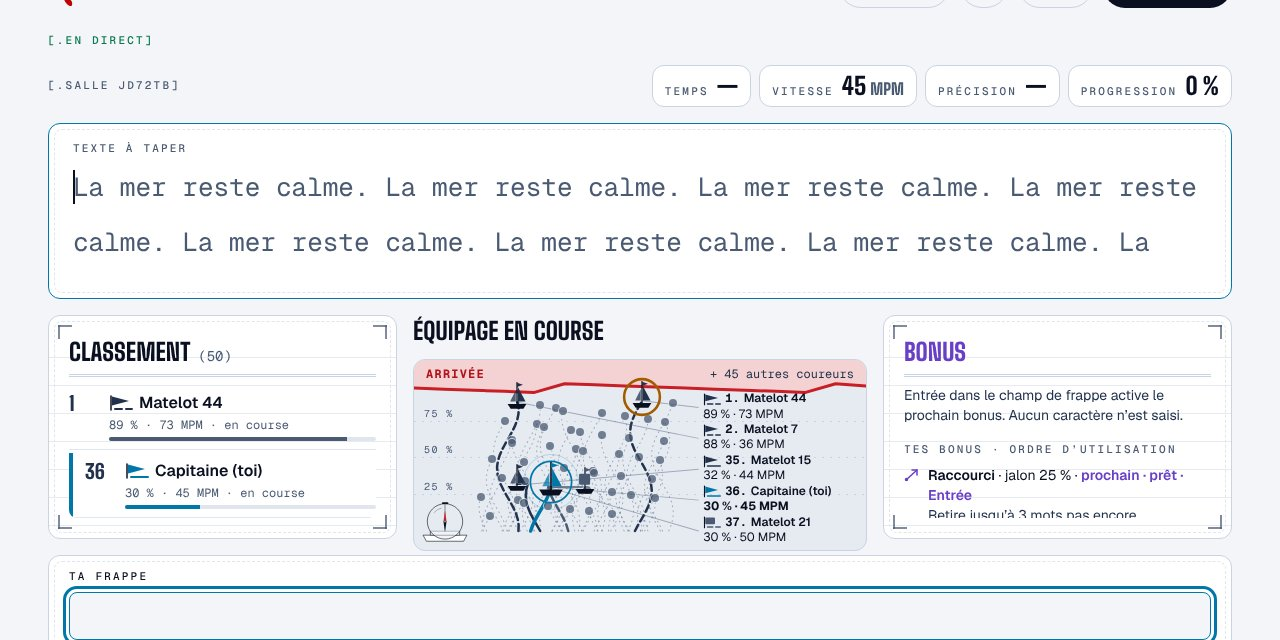
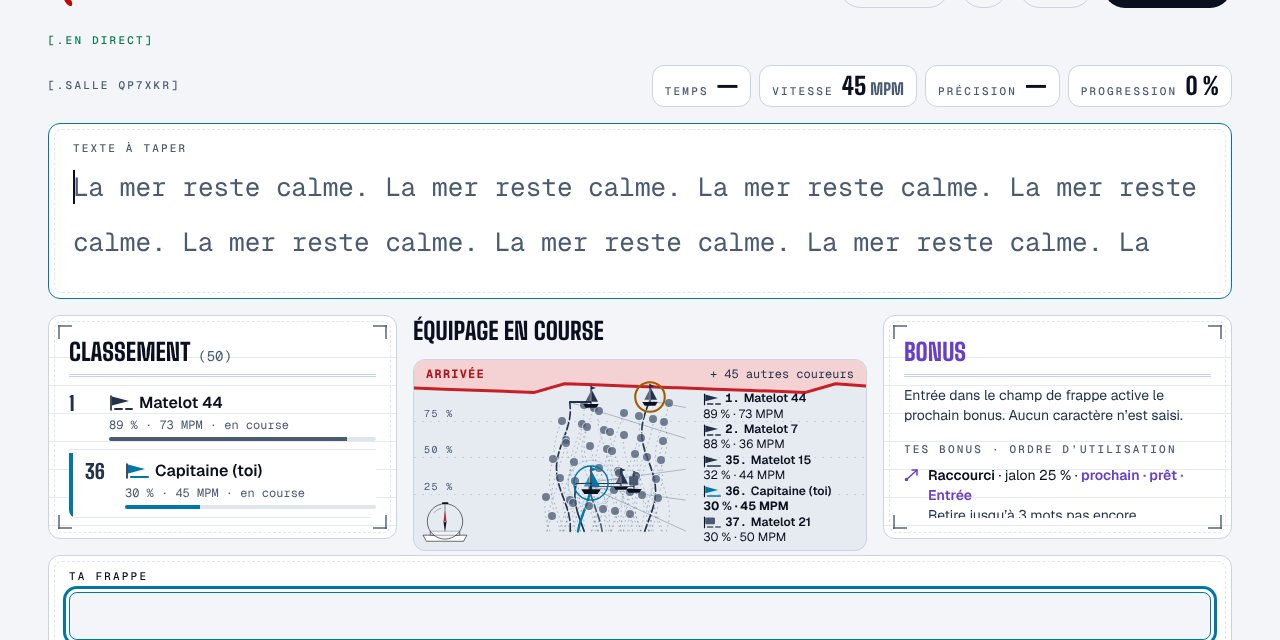
feat(races): on a narrow chart, start the lanes right of the finish word
Option C of the finish comparison, chosen by Philippe on 20 November: on
a vertical chart of 600 px or less (the Arcade row, the low screen, the
phone) the lanes are drawn between 30 and 55 % of the width instead of
16 to 55 %, so that no ship reaches « ARRIVÉE ». Markers, routes,
connectors, ships and tethers move together through one CSS mapping;
progress is unchanged. Ships are berthed there with their own clearance,
in lane space, and are a little smaller (38 px, mine 48 px). The tether
becomes a line inside the marker, so it follows the mapping.

da2-race.spec.ts checks that no ship touches the finish word on every
vertical capture and measures each tether as drawn. A whole crew exactly
level on a narrow chart may keep a neighbour short of mine: mine is then
drawn above it (declared in the spec and the evidence README).

Claude-Session: https://claude.ai/code/session_01FBFqZL8NQL9Yzz1qyg8vKZ

Changed region(s): [[0.375, 0.5938, 0.5312, 0.8438], [0.0938, 0.125, 0.125, 0.1562]]

diff --git a/apps/web/e2e/da2-race.spec.ts b/apps/web/e2e/da2-race.spec.ts
@@ -68,7 +68,7 @@ async function chartBoxes(page: Page) {
       mine: [...track.querySelectorAll("[data-self] [data-ship]")].filter(visible).map(el => box(el.querySelector("path:last-of-type")!)),
       others: [...track.querySelectorAll("[data-runner]:not([data-self]) [data-ship]")].filter(visible).map(el => box(el.querySelector("path:last-of-type")!)),
       sails: [...track.querySelectorAll("[data-ship]")].filter(visible).map(el => box(el.querySelector("[data-sail-cloth]")!)),
-      words: [...track.querySelectorAll("[data-track-word]")].map(el => ({ ...box(el), layer: Number(getComputedStyle(el).zIndex), plate: getComputedStyle(el).backgroundColor,
+      words: [...track.querySelectorAll<HTMLElement>("[data-track-word]")].map(el => ({ ...box(el), word: el.dataset.trackWord, layer: Number(getComputedStyle(el).zIndex), plate: getComputedStyle(el).backgroundColor,
         above: Math.max(...[...track.querySelectorAll("[data-runner]:not([data-self])")].map(marker => Number(getComputedStyle(marker).zIndex) || 0)),
         mine: Math.max(...[...track.querySelectorAll("[data-runner][data-self]")].map(marker => Number(getComputedStyle(marker).zIndex) || 0)) })),
       markers: [...track.querySelectorAll("[data-runner]")].map(box) };
@@ -141,12 +141,31 @@ for (const item of cases) {
       expect(word.plate).toMatch(/^(rgb\(|color\(srgb [\d. ]+\)$)/);
     }
     // No ship over mine: one that would cover it is drawn beside its marker (two others may touch).
+    // Exception, measured and declared: a whole crew exactly level on a narrow chart (the
+    // by-the-coast cases) can hold a neighbour short of mine by its 10 % reach; mine is then drawn
+    // above it, never under.
     expect(boxes.mine).toHaveLength(1);
-    for (const hull of boxes.others) expect(overlap(hull, boxes.mine[0]!), "a hull over mine").toBe(false);
-    // A ship drawn beside its marker is tied to it; the others have no tether (each chart has its own).
-    expect(await track.evaluate((el, tablet) => [...el.querySelectorAll<HTMLElement>("[data-runner]")].filter(marker => marker.querySelector("[data-ship]"))
-      .every(marker => (Number(marker.style.getPropertyValue(tablet ? "--horizontal-ship-shift" : "--ship-shift")) !== 0)
-        === (el.querySelector(`[${tablet ? "data-horizontal-tether" : "data-tether"}="${marker.dataset.runner}"]`) !== null)), horizontal)).toBe(true);
+    if (steps > 4) expect(await track.evaluate(el => { const z = (m: Element) => Number(getComputedStyle(m).zIndex) || 0;
+      const mine = el.querySelector("[data-runner][data-self]")!; return [...el.querySelectorAll("[data-runner]:not([data-self])")].every(other => z(other) < z(mine)); })).toBe(true);
+    else for (const hull of boxes.others) expect(overlap(hull, boxes.mine[0]!), "a hull over mine").toBe(false);
+    // A ship drawn beside its marker is tied to it, the tether running from the marker to the ship's
+    // foot; a ship on its marker has none. Measured as drawn, whatever the chart's mapping.
+    if (horizontal) expect(await track.evaluate(el => [...el.querySelectorAll<HTMLElement>("[data-runner]")].filter(marker => marker.querySelector("[data-ship]"))
+      .every(marker => (Number(marker.style.getPropertyValue("--horizontal-ship-shift")) !== 0)
+        === (el.querySelector(`[data-horizontal-tether="${marker.dataset.runner}"]`) !== null)))).toBe(true);
+    else for (const tie of await track.evaluate(el => [...el.querySelectorAll<HTMLElement>("[data-runner]")].filter(marker => marker.querySelector("[data-ship]")).map(marker => {
+      const foot = marker.getBoundingClientRect().left; const hull = marker.querySelector("[data-ship] > path:last-of-type")!.getBoundingClientRect();
+      const tether = marker.querySelector("[data-tether]")!.getBoundingClientRect();
+      return { offset: hull.left + hull.width / 2 - foot, tether: tether.width, from: Math.min(Math.abs(tether.left - foot), Math.abs(tether.right - foot)) };
+    }))) {
+      expect(tie.tether).toBeCloseTo(Math.abs(tie.offset), 0);
+      if (tie.tether > 0.5) expect(tie.from).toBeLessThan(1);
+    }
+    // On the vertical chart no ship, mine included, reaches the finish word: the lanes start right of it.
+    if (!horizontal) {
+      const finish = boxes.words.find(word => word.word === "finish")!;
+      for (const ship of [...boxes.ships, ...boxes.sails]) expect(overlap(ship, finish), "a ship on « ARRIVÉE »").toBe(false);
+    }
     // On the tablet's chart, every runner it does not name is grey, dot and route alike, as « + N » counts them.
     if (horizontal) {
       const crew = await track.evaluate(el => [...el.querySelectorAll<HTMLElement>("[data-runner]")].map(marker => ({ ship: marker.querySelector("[data-ship]")?.getBoundingClientRect().width ?? 0,

diff --git a/apps/web/src/components/races/track-layout.ts b/apps/web/src/components/races/track-layout.ts
@@ -16,6 +16,8 @@ export type TrackPoint = {
    * unless it would sail under another ship. Drawing only: the marker stays on the real position.
    */
   readonly shipShift: number;
+  /** The same on a narrow vertical chart, in lane space (see `NARROW_LANES`): the stylesheet scales it with the lanes. */
+  readonly narrowShipShift: number;
   /** The same on the tablet's horizontal chart, in % of its height, for the two ships it draws (me and the leader). */
   readonly horizontalShipShift: number;
   /** The runner's stable sea route, the same on every refresh of the round (see `routeStyle`). */
@@ -115,6 +117,16 @@ export const LABEL_GAP = 16.25;
  */
 export type ShipBerths = { readonly clear: number; readonly level: number; readonly ease: number; readonly min: number; readonly max: number; readonly reach: number };
 export const SHIP_BERTHS: ShipBerths = { clear: 7.5, level: 16, ease: 4, min: 4, max: 60, reach: 10 };
+/**
+ * On a narrow vertical chart (600 px or less: the Arcade row, a low screen, a phone) the first
+ * lanes would sail under the finish word. The stylesheet then draws the lanes, 16 to 55 % of the
+ * width, between 30 and 55 %: x' = offset + scale × x (race-track.module.css, same numbers).
+ * Ships there are berthed in lane space with a clearance and a reach divided by the scale, so that
+ * once drawn they keep the same 7.5 % and 10 %, and never start left of 30 %.
+ */
+export const NARROW_LANES = { offset: 30 - 16 * (25 / 39), scale: 25 / 39 } as const;
+export const NARROW_SHIP_BERTHS: ShipBerths = { ...SHIP_BERTHS, clear: SHIP_BERTHS.clear / NARROW_LANES.scale, reach: SHIP_BERTHS.reach / NARROW_LANES.scale,
+  min: (30 - NARROW_LANES.offset) / NARROW_LANES.scale, max: (SHIP_BERTHS.max - NARROW_LANES.offset) / NARROW_LANES.scale };
 /** The tablet's chart: lanes down its 180 px, the course along its width. Only two ships sail there. */
 export const HORIZONTAL_SHIP_BERTHS: ShipBerths = { clear: 18, level: 4, ease: 1.5, min: 14, max: 62, reach: 20 };
 
@@ -197,7 +209,7 @@ export function trackLayout(entrants: readonly Runner[], selfId: string | null):
       runner, self: id === selfId, labelled: labelled.has(id),
       tone: id === selfId ? "self" as const : id === leader ? "leader" as const :
         id === ahead ? "nearAhead" as const : id === behind ? "nearBehind" as const : "neutral" as const,
-      x, y, horizontalX, horizontalY, labelY: 0, shipShift: 0, horizontalShipShift: 0,
+      x, y, horizontalX, horizontalY, labelY: 0, shipShift: 0, narrowShipShift: 0, horizontalShipShift: 0,
       route: routes.get(id)!,
       path: routePath(progress, vertical), horizontalPath: routePath(progress, horizontal),
     };
@@ -213,11 +225,13 @@ export function trackLayout(entrants: readonly Runner[], selfId: string | null):
   const labelPositions = new Map(labels.map((point, i) => [point.runner.entrantId, positions[i]!]));
   // Markers stay at the end of their own route: never moved aside for a label.
   const berthing = raw.map((point, lane) => ({ point, id: point.runner.entrantId, self: point.self, lane }));
-  const shifts = shipShifts(berthing.filter(({ point }) => point.labelled).map(({ point, ...ship }) => ({ ...ship, berth: laneOf(ship.lane), across: point.x, along: point.y })), SHIP_BERTHS);
+  const named = berthing.filter(({ point }) => point.labelled).map(({ point, ...ship }) => ({ ...ship, berth: laneOf(ship.lane), across: point.x, along: point.y }));
+  const shifts = shipShifts(named, SHIP_BERTHS);
+  const narrowShifts = shipShifts(named, NARROW_SHIP_BERTHS);
   const horizontalShifts = shipShifts(berthing.filter(({ point }) => point.self || point.tone === "leader")
     .map(({ point, ...ship }) => ({ ...ship, berth: horizontalLaneOf(ship.lane), across: point.horizontalY, along: point.horizontalX })), HORIZONTAL_SHIP_BERTHS);
   return raw.map((point) => ({ ...point, labelY: labelPositions.get(point.runner.entrantId) ?? point.y,
-    shipShift: shifts.get(point.runner.entrantId) ?? 0, horizontalShipShift: horizontalShifts.get(point.runner.entrantId) ?? 0 }));
+    shipShift: shifts.get(point.runner.entrantId) ?? 0, narrowShipShift: narrowShifts.get(point.runner.entrantId) ?? 0, horizontalShipShift: horizontalShifts.get(point.runner.entrantId) ?? 0 }));
 }
 
 /**

diff --git a/apps/web/src/components/races/race-track.module.css b/apps/web/src/components/races/race-track.module.css
@@ -109,11 +109,23 @@
 .dashed { stroke-dasharray: 7 4; }
 .dotted { stroke-dasharray: 1 4; }
 .anonRoute { --route: var(--color-brume); stroke-width: 1px; opacity: 0.45; stroke-dasharray: 1 4; }
-.tether {
+/* The horizontal chart's tether, in its routes' drawing. */
+.routeTether {
   stroke: var(--route);
   stroke-width: 1.5px;
   stroke-linecap: round;
   vector-effect: non-scaling-stroke;
+}
+/* The vertical chart's tether: from the marker to its ship's foot, the length of the drawn shift. */
+.tether {
+  position: absolute;
+  top: -0.75px;
+  left: min(0px, calc(var(--drawn-shift) * 1cqw));
+  width: max(calc(var(--drawn-shift) * 1cqw), calc(var(--drawn-shift) * -1cqw));
+  height: 1.5px;
+  background: var(--route);
+  pointer-events: none;
+  transition: left var(--duration-court) var(--ease-incision), width var(--duration-court) var(--ease-incision);
 }
 .connector {
   stroke: var(--color-brume);
@@ -123,6 +135,8 @@
 }
 
 .point {
+  /* The ship's sideways offset as drawn, in % of the chart's width (narrow charts scale it). */
+  --drawn-shift: var(--ship-shift, 0);
   position: absolute;
   z-index: 1;
   left: var(--point-x);
@@ -143,7 +157,7 @@
   --ship-size: 46px;
   position: absolute;
   /* Beside its marker when it would sail under another ship (track-layout's `shipShift`). */
-  left: calc(var(--ship-size) / -2 + var(--ship-shift, 0) * 1cqw);
+  left: calc(var(--ship-size) / -2 + var(--drawn-shift) * 1cqw);
   /* The ship's foot (SHIP_ANCHOR: 31 / 54 of its box) on the marker. */
   top: calc(var(--ship-size) * -0.574);
   width: var(--ship-size);
@@ -185,6 +199,20 @@
 }
 /* A narrow chart (the three-column row at 1024 px, a phone): the name's line is the name's, the
    pennant stays in the standings. */
+/*
+ * A narrow vertical chart (600 px or less): the lanes are drawn between 30 and 55 % of the width,
+ * right of the finish word, instead of 16 to 55 %; x' = 19.744 % + 0.641 x (track-layout's
+ * NARROW_LANES). Markers, routes, connectors, ships and tethers move together; progress does not.
+ */
+@media not ((min-width: 640px) and (max-width: 1023px)) {
+  @container (max-width: 600px) {
+    .point { left: calc(19.744% + var(--point-x) * 0.641); --drawn-shift: calc(var(--narrow-ship-shift, 0) * 0.641); }
+    /* Smaller ships in the narrower band, as on the tablet's chart: neighbours level with me stay clear of mine. */
+    .ship { --ship-size: 38px; }
+    .self .ship { --ship-size: 48px; }
+    .verticalRoutes { transform: translateX(19.744%) scaleX(0.641); transform-origin: 0 0; }
+  }
+}
 @container (max-width: 400px) {
   .track .pennant { display: none; }
   .label { left: 63%; width: 36.5%; }
@@ -196,6 +224,7 @@
   .horizontalRoutes, .track .horizontalOnly { display: block; }
   .track { height: 180px; }
   .point { left: var(--horizontal-x); top: var(--horizontal-y); }
+  .track .tether { display: none; }
   /* Lanes run down this chart (180 px high): a ship beside its marker is above or below it. */
   .ship { --ship-size: 36px; left: calc(var(--ship-size) / -2); top: calc(var(--ship-size) * -0.574 + var(--horizontal-ship-shift, 0) * 1.8px); }
   /* Only the two runners named on this chart sail a ship; the other named ones are dots again,
@@ -218,11 +247,12 @@
   .more { top: 6px; right: auto; left: 12px; font-size: 10px; }
 }
 @media (prefers-reduced-motion: reduce) {
-  .point, .label, .ship { transition: none !important; }
+  .point, .label, .ship, .tether { transition: none !important; }
 }
 @media (forced-colors: active) {
   .point { background: CanvasText; forced-color-adjust: none; box-shadow: none; }
-  .route, .tether { stroke: CanvasText; }
+  .route, .routeTether { stroke: CanvasText; }
+  .tether { background: CanvasText; forced-color-adjust: none; }
   .connector { stroke: CanvasText; opacity: 1; }
   .selfRoute { stroke: Highlight; }
   .milestone { background: none; border-top: 1px dotted CanvasText; }

diff --git a/apps/web/src/components/races/race-track.tsx b/apps/web/src/components/races/race-track.tsx
@@ -57,16 +57,13 @@ export const RaceTrack = memo(function RaceTrack({ entrants, progress, selfId, t
           className={`${styles.route} ${routeClass(point)}`} />)}
         {points.filter((point) => point.labelled).map((point) => <line key={point.runner.entrantId} className={styles.connector}
           x1={point.x} y1={point.y} x2="63" y2={point.labelY} />)}
-        {/* A ship drawn beside its marker stays tied to it, in its own colour. */}
-        {points.filter((point) => point.labelled && point.shipShift !== 0).map((point) => <line key={point.runner.entrantId} data-tether={point.runner.entrantId}
-          className={`${styles.tether} ${styles[point.route.colour]}`} x1={point.x} y1={point.y} x2={point.x + point.shipShift} y2={point.y} />)}
       </svg>
       <svg viewBox="0 0 100 100" preserveAspectRatio="none" className={`${styles.routes} ${styles.horizontalRoutes}`}>
         {/* This chart names two runners only (me and the leader): every other route is an unnamed one. */}
         {points.map((point) => <polyline key={point.runner.entrantId} points={point.horizontalPath} data-horizontal-route={point.runner.entrantId}
           className={`${styles.route} ${routeClass(point, point.self || point.tone === "leader")}`} />)}
         {points.filter((point) => (point.self || point.tone === "leader") && point.horizontalShipShift !== 0).map((point) => <line key={point.runner.entrantId} data-horizontal-tether={point.runner.entrantId}
-          className={`${styles.tether} ${styles[point.route.colour]}`} x1={point.horizontalX} y1={point.horizontalY} x2={point.horizontalX} y2={point.horizontalY + point.horizontalShipShift} />)}
+          className={`${styles.routeTether} ${styles[point.route.colour]}`} x1={point.horizontalX} y1={point.horizontalY} x2={point.horizontalX} y2={point.horizontalY + point.horizontalShipShift} />)}
       </svg>
       {points.map((point) => {
         const { runner } = point;
@@ -75,12 +72,14 @@ export const RaceTrack = memo(function RaceTrack({ entrants, progress, selfId, t
         const leader = point.tone === "leader";
         const position = { "--point-x": `${point.x}%`, "--point-y": `${point.y}%`, "--label-y": `${point.labelY}%`,
           "--horizontal-x": `${point.horizontalX}%`, "--horizontal-y": `${point.horizontalY}%`,
-          "--horizontal-label-x": `${Math.max(2, Math.min(60, point.horizontalX - 5))}%`, "--ship-shift": point.shipShift, "--horizontal-ship-shift": point.horizontalShipShift } as CSSProperties;
+          "--horizontal-label-x": `${Math.max(2, Math.min(60, point.horizontalX - 5))}%`, "--ship-shift": point.shipShift, "--narrow-ship-shift": point.narrowShipShift, "--horizontal-ship-shift": point.horizontalShipShift } as CSSProperties;
         return <div key={runner.entrantId}>
           {/* The marker is the runner's real position: a dot, or the foot of a named runner's ship. */}
           <span data-runner={runner.entrantId} data-self={point.self || undefined} data-kind={runner.kind} data-position={runner.position}
             data-route-colour={point.route.colour} data-route-dash={point.route.dash} style={position}
             className={`${styles.point} ${point.labelled ? `${styles.named} ${styles[point.route.colour]}` : styles.anon} ${point.self ? styles.self : ""} ${leader ? styles.leader : ""}`}>
+            {/* A ship drawn beside its marker stays tied to it by a short line in its colour (none when it is on it). */}
+            {point.labelled && <span data-tether={runner.entrantId} className={styles.tether} />}
             {point.labelled && <Ship kind={runner.kind} colour={point.route.colour} self={point.self} leader={leader} className={styles.ship} />}
           </span>
           {point.labelled && <span data-track-label style={position} className={`${styles.label} ${point.self ? styles.selfLabel : ""} ${leader ? styles.leaderLabel : ""}`}>

diff --git a/apps/web/src/components/races/track-layout.test.ts b/apps/web/src/components/races/track-layout.test.ts
@@ -1,5 +1,5 @@
 import { describe, expect, it } from "vitest";
-import { LABEL_BOTTOM, LABEL_GAP, LABEL_TOP, ROUTE_COLOURS, routeStyles, SHIP_BERTHS, HORIZONTAL_SHIP_BERTHS, standingsOrder, trackLayout } from "./track-layout";
+import { LABEL_BOTTOM, LABEL_GAP, LABEL_TOP, ROUTE_COLOURS, routeStyles, SHIP_BERTHS, HORIZONTAL_SHIP_BERTHS, NARROW_LANES, standingsOrder, trackLayout } from "./track-layout";
 
 const runners = (count: number) => Array.from({ length: count }, (_, i) => ({ entrantId: `runner-${String(i).padStart(2, "0")}`, kind: i % 4 === 0 ? "bot" as const : "human" as const,
   status: "racing" as const, position: i * 2, length: 100, netWpm: 40 + i, inactive: false }));
@@ -43,6 +43,37 @@ describe("named ships", () => {
     // Held short of a full clearance by the reach or an edge: possible in a crew bunched on purpose, as
     // here, never the common case (under 3 % of the ships beside mine).
     expect(stopped).toBeLessThanOrEqual(pairs * 0.03);
+  });
+
+  it.each([2, 6, 12, 30, 50])("on a narrow chart, starts every ship right of the finish word and keeps mine clear as drawn, among %i runners", count => {
+    const random = sequence(count + 101);
+    const drawn = (x: number) => NARROW_LANES.offset + NARROW_LANES.scale * x;
+    let stopped = 0; let pairs = 0; let hulls = 0;
+    for (let round = 0; round < 400; round++) {
+      const base = round < 3 ? [0, 40, 100][round]! : Math.floor(random() * 90);
+      const spread = round < 3 ? 0 : Math.floor(random() * 12);
+      const input = runners(count).map(r => ({ ...r, position: Math.min(100, base + Math.floor(random() * (spread + 1))) }));
+      const points = trackLayout(input, input[Math.floor(random() * count)]!.entrantId);
+      // Every lane is drawn right of 28 % (30 % less the routes' swing), a ship never left of it.
+      for (const point of points) expect(drawn(point.x)).toBeGreaterThanOrEqual(30 - 2.4 * NARROW_LANES.scale - 0.01);
+      const ships = points.filter(p => p.labelled).map(p => ({ x: drawn(p.x + p.narrowShipShift), y: p.y, self: p.self, shift: p.narrowShipShift * NARROW_LANES.scale }));
+      const mine = ships.find(ship => ship.self)!;
+      expect(mine.shift).toBe(0);
+      for (const ship of ships) {
+        expect(ship.x).toBeGreaterThanOrEqual(28); expect(ship.x).toBeLessThanOrEqual(SHIP_BERTHS.max + 0.01);
+        expect(Math.abs(ship.shift)).toBeLessThanOrEqual(SHIP_BERTHS.reach + 0.01);
+        if (ship.self) continue;
+        pairs++;
+        const gap = Math.abs(ship.x - mine.x);
+        if (gap < clearance(ship.y - mine.y) - 0.02) stopped++;
+        if (gap < clearance(ship.y - mine.y) * 0.7 - 0.02) hulls++;
+      }
+    }
+    // The band is narrower (25 % instead of 39 %): in crews bunched on purpose, as here, a neighbour
+    // is more often held short of the full clearance by its 10 % reach (measured: up to 10.5 % of
+    // the ships beside mine with 50 runners), and its hull touches mine in up to 8.3 % of them.
+    expect(stopped).toBeLessThanOrEqual(pairs * 0.12);
+    expect(hulls).toBeLessThanOrEqual(pairs * 0.09);
   });
 
   it.each([6, 30, 50])("slides a ship by little between two small advances while the same runners are named, among %i runners", count => {

diff --git a/apps/web/src/components/races/race-track.test.ts b/apps/web/src/components/races/race-track.test.ts
@@ -40,7 +40,7 @@ describe("semantic track", () => {
       { entrantId: "b", kind: "bot", status: "racing", position: 8, length: 10, netWpm: 60, inactive: false },
       ...Array.from({ length: 10 }, (_, i) => ({ entrantId: `z${i}`, kind: "human" as const, status: "racing" as const, position: 0, length: 10, netWpm: 0, inactive: false }))] };
     const html = renderToStaticMarkup(createElement(RaceTrack, { progress: crew, entrants: [], selfId: "a", t: getDictionary("fr").races, locale: "fr" }));
-    const marker = (id: string) => html.match(new RegExp(`<span data-runner="${id}"[^>]*>(.*?)</span>`))![0];
+    const marker = (id: string) => html.match(new RegExp(`<span data-runner="${id}"[^>]*>.*?</svg>`))![0];
     // Me: a human, triangle sail in `moi`, two rings. The leader: a bot, square sail, one ring.
     expect(marker("a")).toContain('data-sail="triangle"'); expect(marker("a")).toContain('data-colour="moi"');
     expect(marker("a").match(/<circle/g)).toHaveLength(2);
@@ -65,8 +65,11 @@ describe("semantic track", () => {
     const shifted = [...html.matchAll(/data-runner="(r\d+)"[^>]*style="[^"]*--ship-shift:(-?[\d.]+)/g)].filter(match => Number(match[2]) !== 0).map(match => match[1]!);
     expect(shifted.length).toBeGreaterThan(0);
     expect(shifted).not.toContain("r05");
-    for (const id of shifted) expect(html).toContain(`data-tether="${id}"`);
-    expect(html.match(/data-tether=/g)).toHaveLength(shifted.length);
+    // Every ship has its tether, inside its marker: drawn with the shift's length, nothing when it is 0.
+    for (const id of shifted) expect(html).toMatch(new RegExp(`data-runner="${id}"[^>]*>(<span[^>]*>)?<span data-tether="${id}"`));
+    expect(html.match(/data-tether=/g)).toHaveLength(html.match(/data-ship=/g)!.length);
+    // A narrow chart has its own berths, carried beside the wide ones.
+    expect(html).toMatch(/--narrow-ship-shift:-?[\d.]+/);
   });
   it("gives every runner of the standings the pennant of its kind and route", () => {
     const html = renderToStaticMarkup(createElement(RaceStandings, { progress, entrants: [], selfId: "a", t: getDictionary("fr").races, locale: "fr" }));

diff --git a/docs/evidence/da2-2-race-ships/README.md b/docs/evidence/da2-2-race-ships/README.md
@@ -60,9 +60,16 @@ and dotted lines under the cloth are hard to tell apart.
   label drops its pennant and takes a wider column so that a short name is whole; the standings
   keep every pennant.
 - **The two words on the land** (« ARRIVÉE », « + N autres coureurs ») sit on a plate of the land's
-  colour, above the other ships: a ship reaching the coast passes behind them. My own ship alone
-  passes in front, so that I never lose sight of it; whether the leader's should too, or the
-  lanes should keep clear of the word, is an open choice.
+  colour, above the other ships; my own ship alone passes in front.
+- **On a narrow vertical chart (600 px or less: the Arcade row from 1024 to 1440 px, the low
+  screen, the phone) the lanes start right of « ARRIVÉE »** (my choice of 20 November, option C of
+  the comparison): they are drawn between 30 and 55 % of the chart's width instead of 16 to 55 %,
+  and the ships are a little smaller there (38 px, mine 48 px). No ship reaches the word any more;
+  the e2e checks it on every vertical capture. Wider charts and the tablet's are unchanged.
+  The cost: a narrower band, so more ships drawn beside their marker. Measured on crews bunched on
+  purpose (`track-layout.test.ts`): a neighbour held short of the full clearance from mine in up to
+  10.5 % of cases with 50 runners, its hull touching mine in up to 8.3 %; with a whole crew exactly
+  level, as in the by-the-coast captures, mine is then drawn above it.
 - **Tablet chart**: a runner it does not name is grey there too, dot and route.
 - **Ships** are drawn at 85 % of the mock-up's size, so that they fit the shortest chart (12 rem).
 
